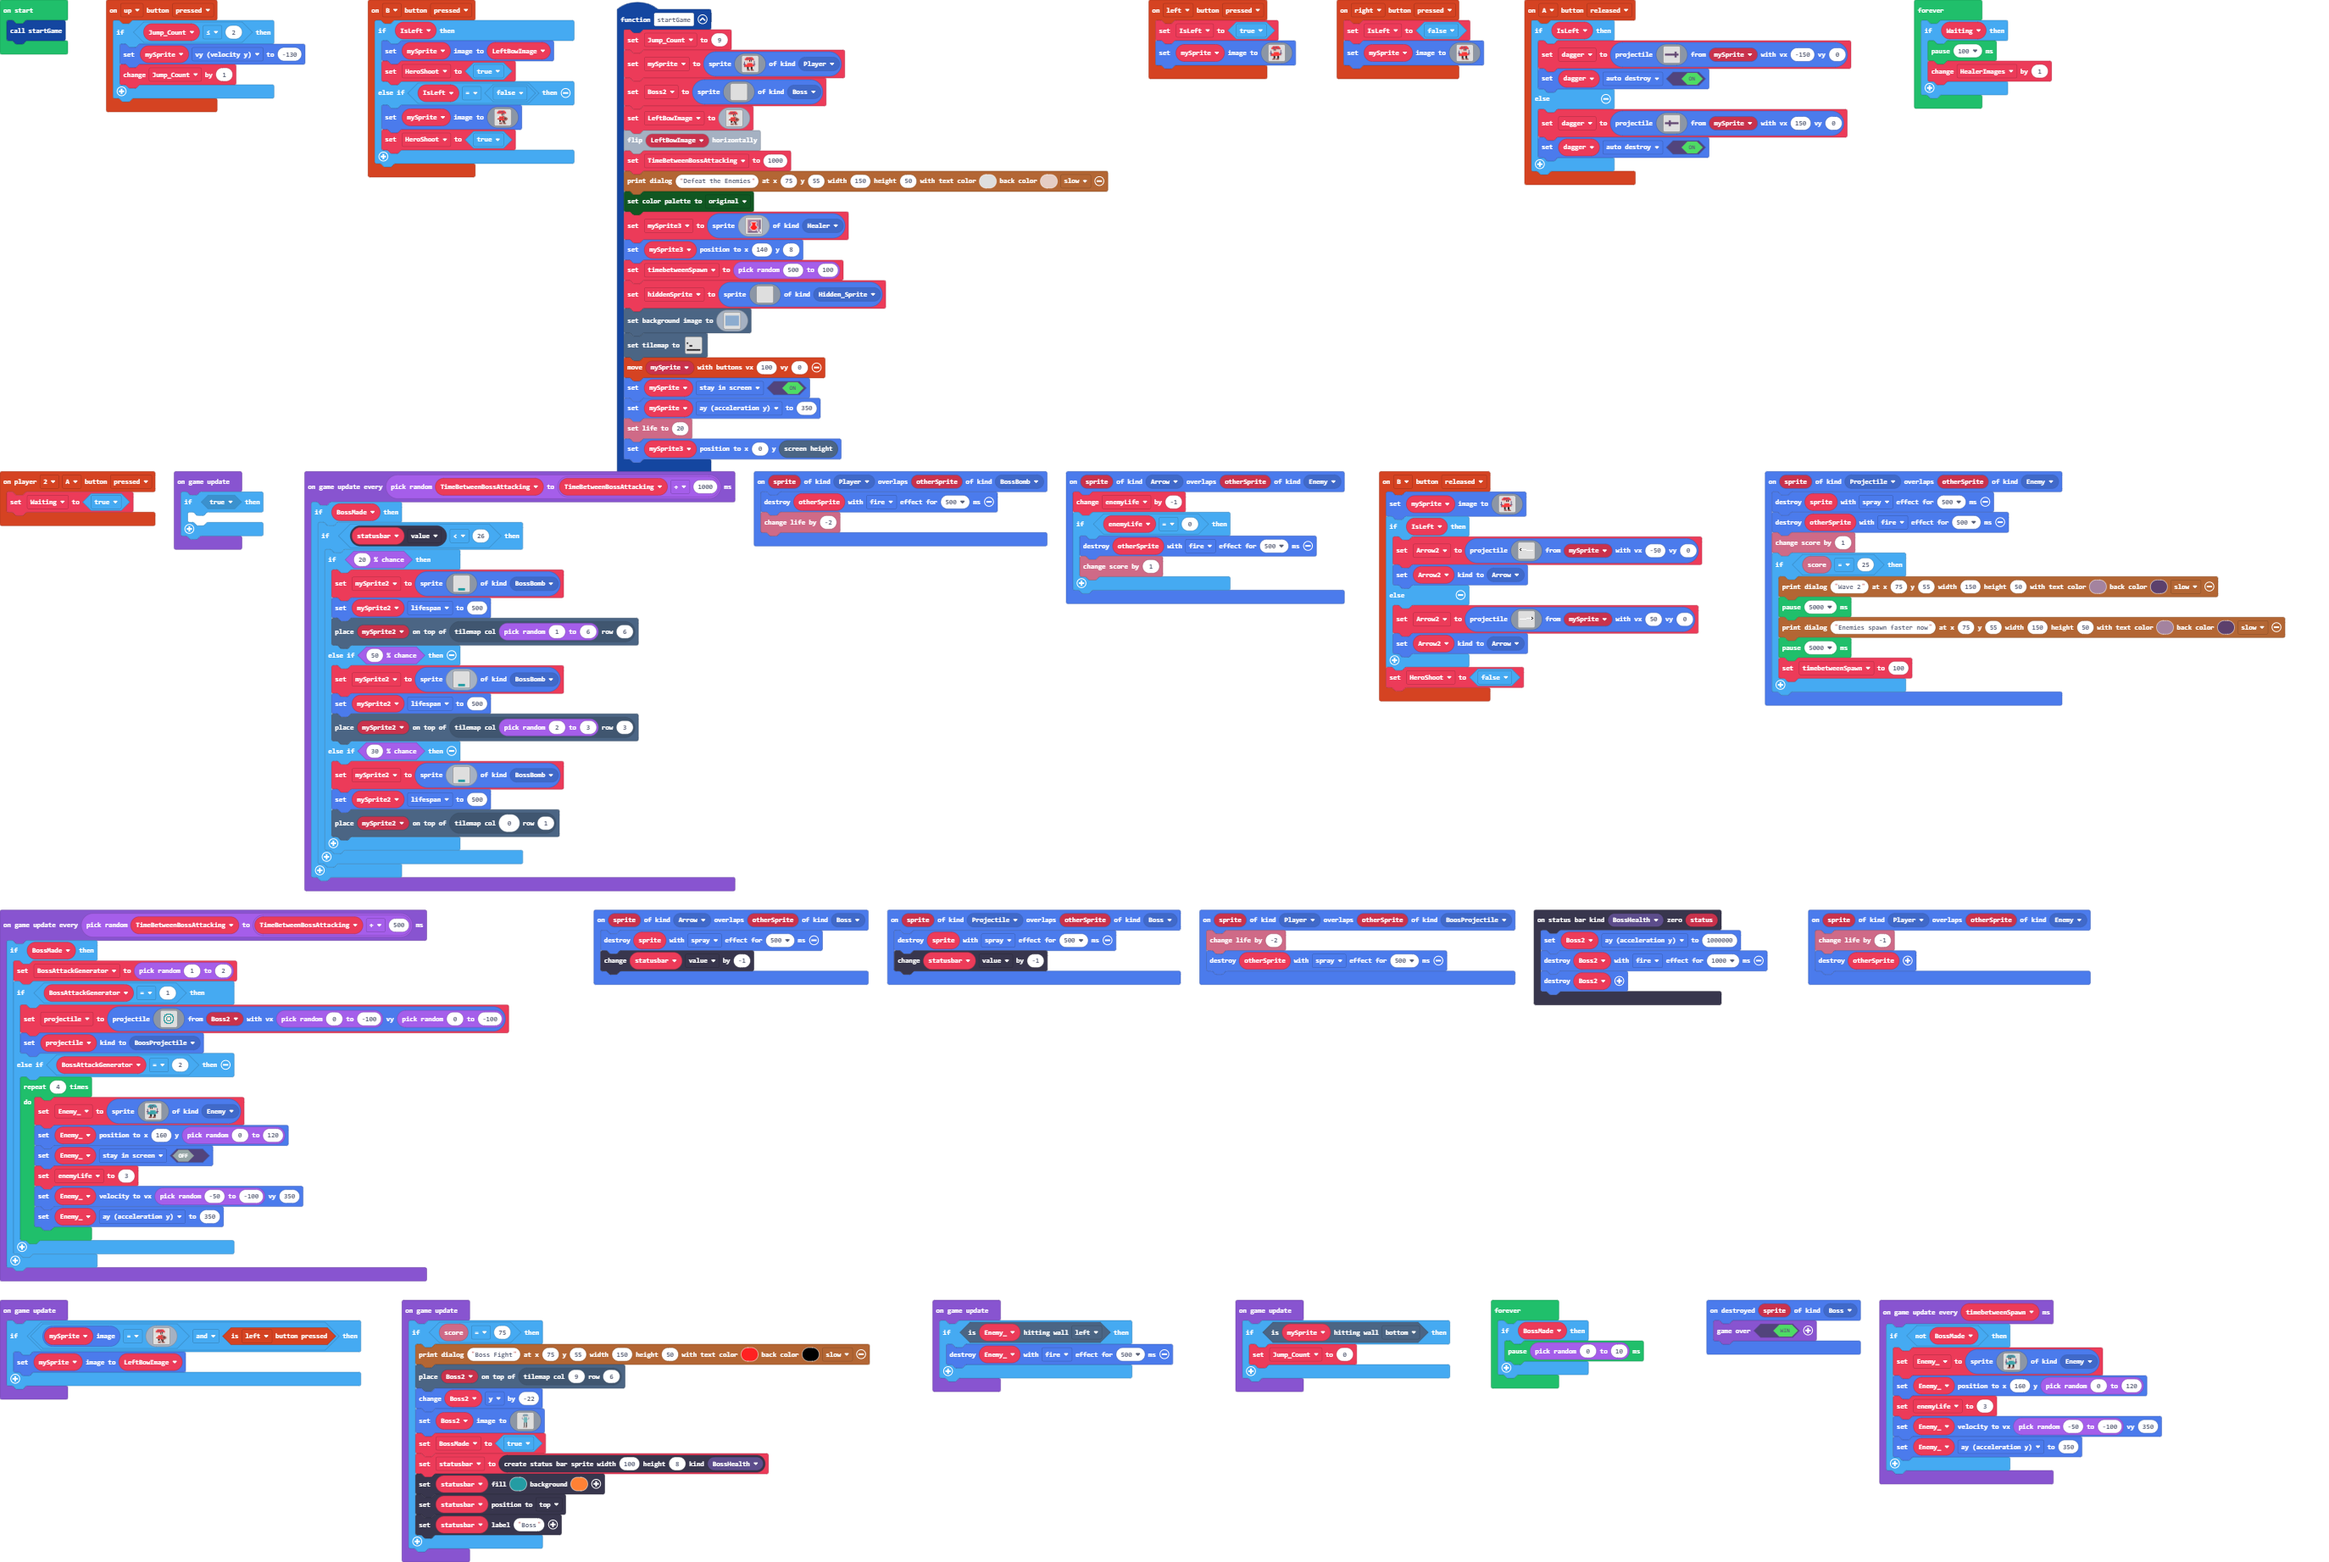
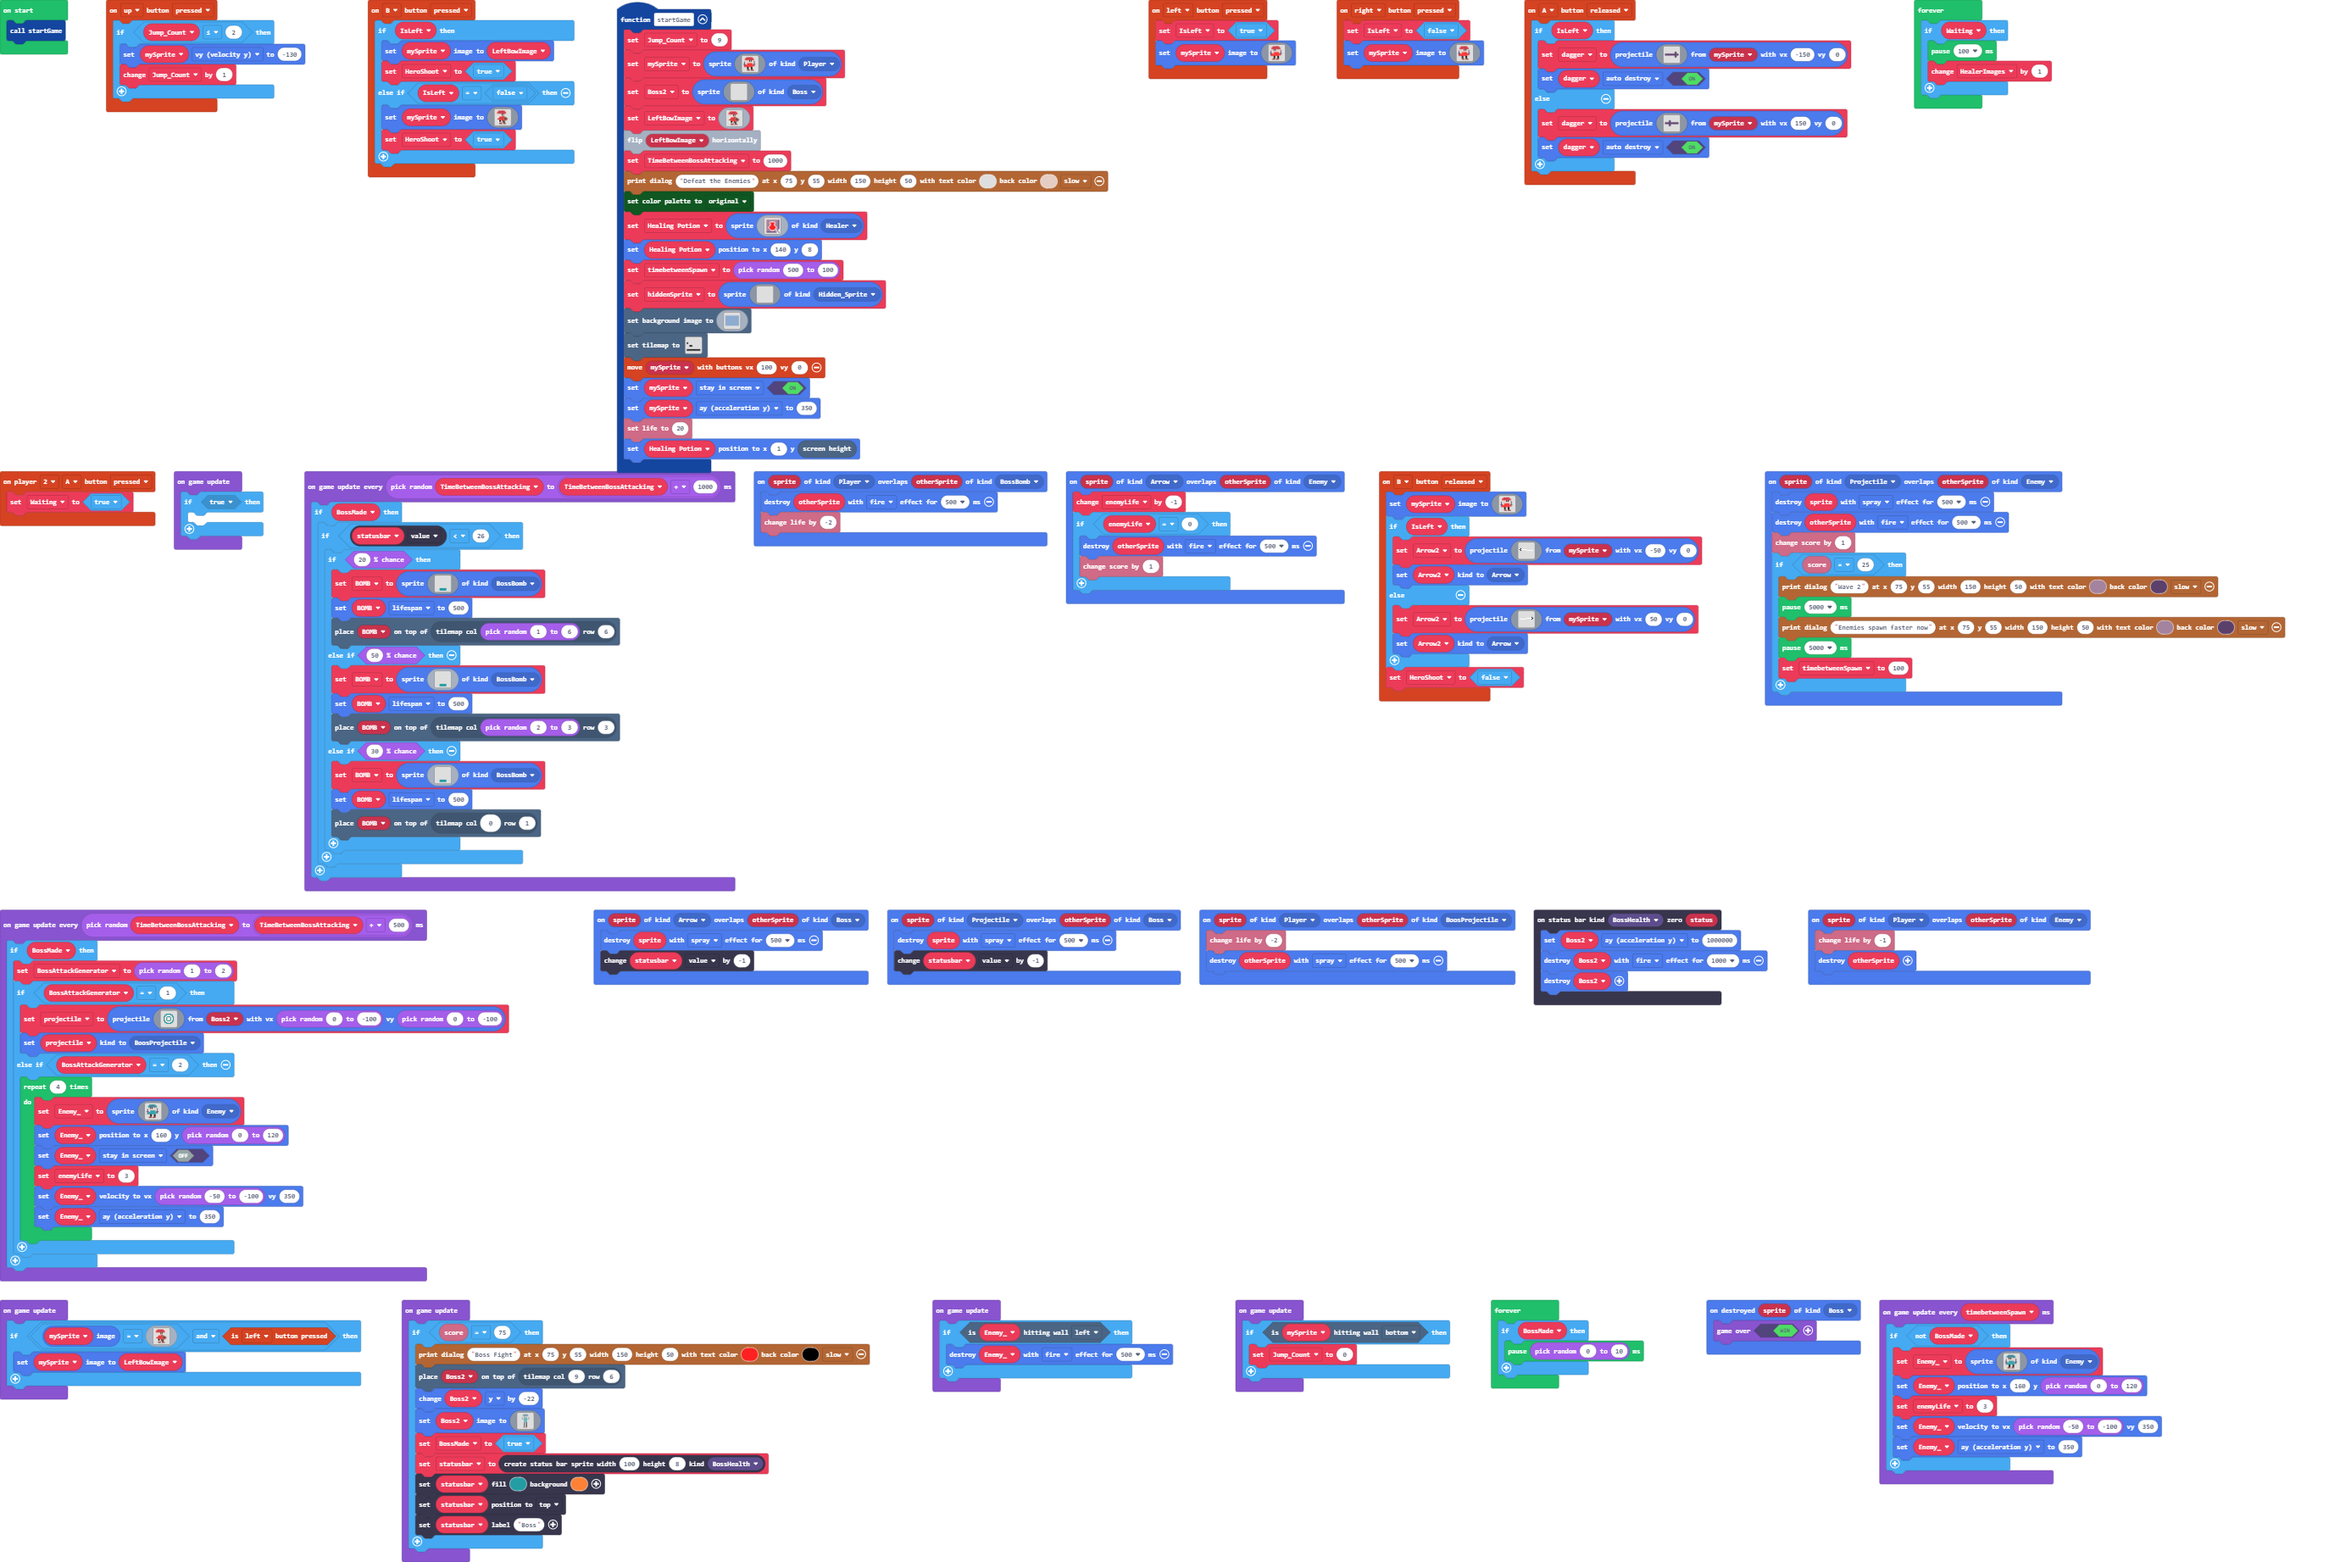
Update pxt.json, main.blocks, main.ts

Changed region(s): [[0.1547, 0.3711, 0.2784, 0.5567], [0.2784, 0.1237, 0.3712, 0.1856], [0.2784, 0.2784, 0.3712, 0.3093]]

diff --git a/main.ts b/main.ts
@@ -156,7 +156,7 @@ function startGame () {
     color.setPalette(
     color.originalPalette
     )
-    mySprite3 = sprites.create(img`
+    Healing_Potion = sprites.create(img`
         d d d d d d d d d d d d d d d d 
         d b b b b b b b b b b b b b b c 
         d b b b b b b b b b b b b b b c 
@@ -174,7 +174,7 @@ function startGame () {
         d b b b b b b b b b b b 1 b b 1 
         d c c c c c c c c c c c c 1 1 c 
         `, SpriteKind.Healer)
-    mySprite3.setPosition(140, 8)
+    Healing_Potion.setPosition(140, 8)
     timebetweenSpawn = randint(500, 100)
     hiddenSprite = sprites.create(img`
         . . . . . . . . . . . . . . . . . . . . . . . . . . . . . . . . . . . . . . . . . . . . . . . . . . . . . . . . . . . . . . . . . . . . . . . . . . . . . . . . . . . . . . . . . . . . . . . . . . . . . . . . . . . . . . . . . . . . . . . . 
@@ -434,7 +434,7 @@ function startGame () {
     mySprite.setFlag(SpriteFlag.StayInScreen, true)
     mySprite.ay = 350
     info.setLife(20)
-    mySprite3.setPosition(0, scene.screenHeight())
+    Healing_Potion.setPosition(1, scene.screenHeight())
 }
 sprites.onOverlap(SpriteKind.Projectile, SpriteKind.Boss, function (sprite, otherSprite) {
     sprite.destroy(effects.spray, 500)
@@ -604,7 +604,7 @@ sprites.onOverlap(SpriteKind.Player, SpriteKind.Enemy, function (sprite, otherSp
 let HealerImages = 0
 let projectile: Sprite = null
 let BossAttackGenerator = 0
-let mySprite2: Sprite = null
+let BOMB: Sprite = null
 let Enemy_: Sprite = null
 let BossMade = false
 let Arrow2: Sprite = null
@@ -612,7 +612,7 @@ let enemyLife = 0
 let dagger: Sprite = null
 let hiddenSprite: Sprite = null
 let timebetweenSpawn = 0
-let mySprite3: Sprite = null
+let Healing_Potion: Sprite = null
 let TimeBetweenBossAttacking = 0
 let Waiting = false
 let HeroShoot = false
@@ -740,7 +740,7 @@ game.onUpdateInterval(randint(TimeBetweenBossAttacking, TimeBetweenBossAttacking
     if (BossMade) {
         if (statusbar.value < 26) {
             if (Math.percentChance(20)) {
-                mySprite2 = sprites.create(img`
+                BOMB = sprites.create(img`
                     . . . . . . . . . . . . . . . . 
                     . . . . . . . . . . . . . . . . 
                     . . . . . . . . . . . . . . . . 
@@ -758,10 +758,10 @@ game.onUpdateInterval(randint(TimeBetweenBossAttacking, TimeBetweenBossAttacking
                     . . . . 6 6 6 6 6 6 6 6 . . . . 
                     . . . . 6 6 6 6 6 6 6 6 . . . . 
                     `, SpriteKind.BossBomb)
-                mySprite2.lifespan = 500
-                tiles.placeOnTile(mySprite2, tiles.getTileLocation(randint(1, 6), 6))
+                BOMB.lifespan = 500
+                tiles.placeOnTile(BOMB, tiles.getTileLocation(randint(1, 6), 6))
             } else if (Math.percentChance(50)) {
-                mySprite2 = sprites.create(img`
+                BOMB = sprites.create(img`
                     . . . . . . . . . . . . . . . . 
                     . . . . . . . . . . . . . . . . 
                     . . . . . . . . . . . . . . . . 
@@ -779,10 +779,10 @@ game.onUpdateInterval(randint(TimeBetweenBossAttacking, TimeBetweenBossAttacking
                     . . . . 6 6 6 6 6 6 6 6 . . . . 
                     . . . . 6 6 6 6 6 6 6 6 . . . . 
                     `, SpriteKind.BossBomb)
-                mySprite2.lifespan = 500
-                tiles.placeOnTile(mySprite2, tiles.getTileLocation(randint(2, 3), 3))
+                BOMB.lifespan = 500
+                tiles.placeOnTile(BOMB, tiles.getTileLocation(randint(2, 3), 3))
             } else if (Math.percentChance(30)) {
-                mySprite2 = sprites.create(img`
+                BOMB = sprites.create(img`
                     . . . . . . . . . . . . . . . . 
                     . . . . . . . . . . . . . . . . 
                     . . . . . . . . . . . . . . . . 
@@ -800,8 +800,8 @@ game.onUpdateInterval(randint(TimeBetweenBossAttacking, TimeBetweenBossAttacking
                     . . . . 6 6 6 6 6 6 6 6 . . . . 
                     . . . . 6 6 6 6 6 6 6 6 . . . . 
                     `, SpriteKind.BossBomb)
-                mySprite2.lifespan = 500
-                tiles.placeOnTile(mySprite2, tiles.getTileLocation(0, 1))
+                BOMB.lifespan = 500
+                tiles.placeOnTile(BOMB, tiles.getTileLocation(0, 1))
             }
         }
     }
